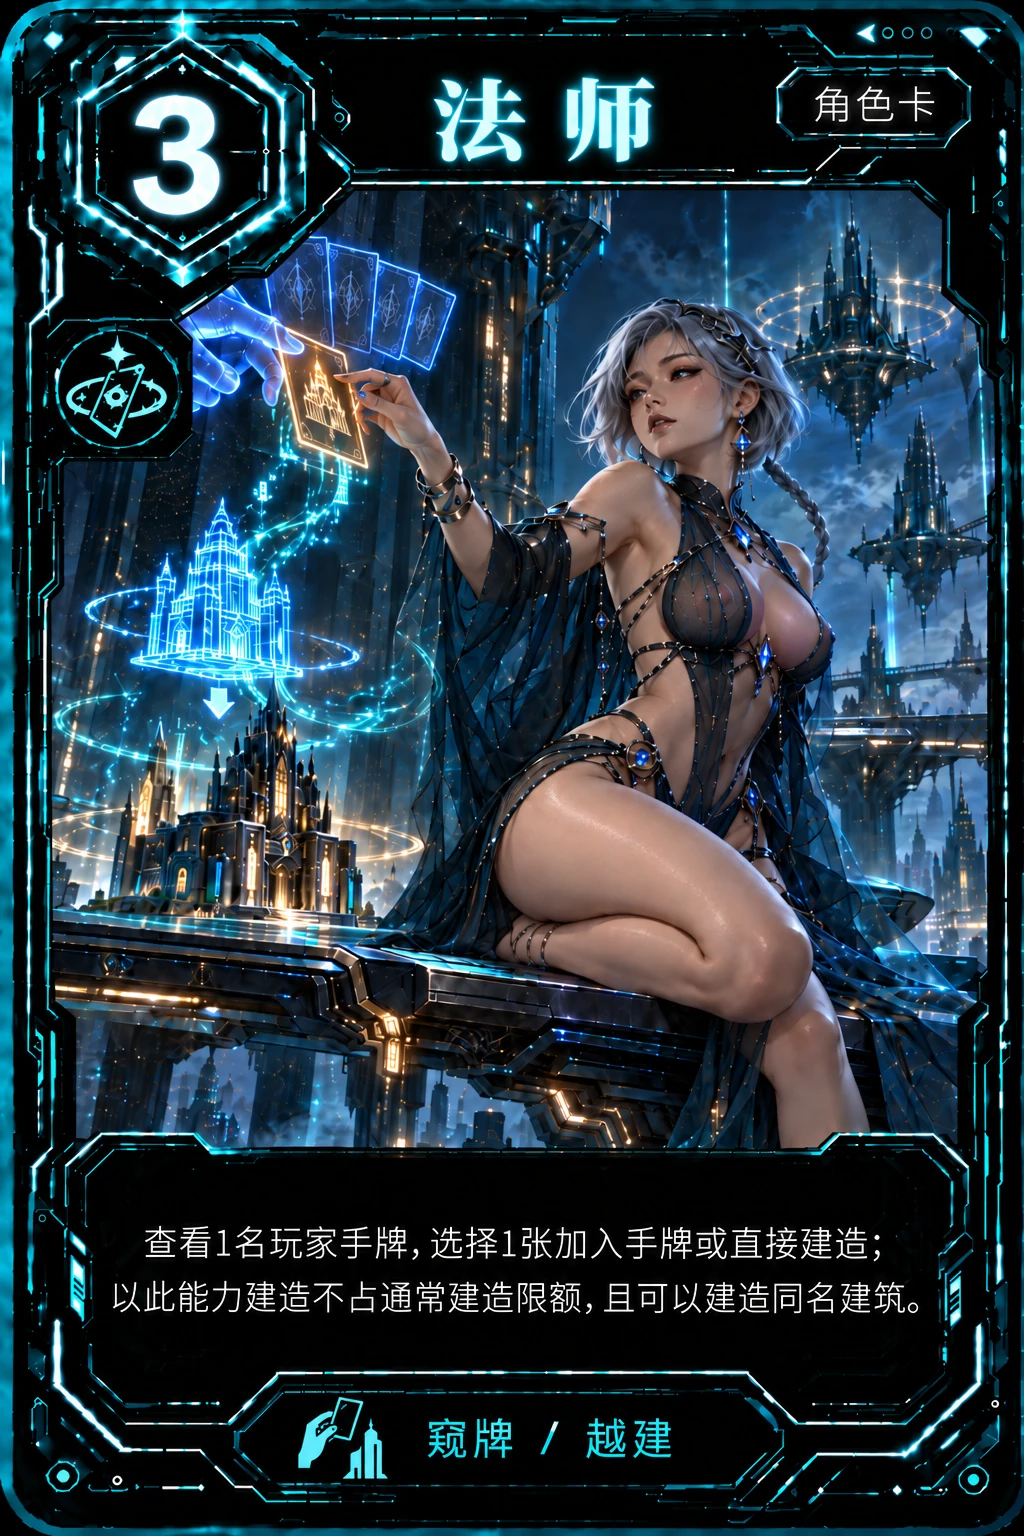
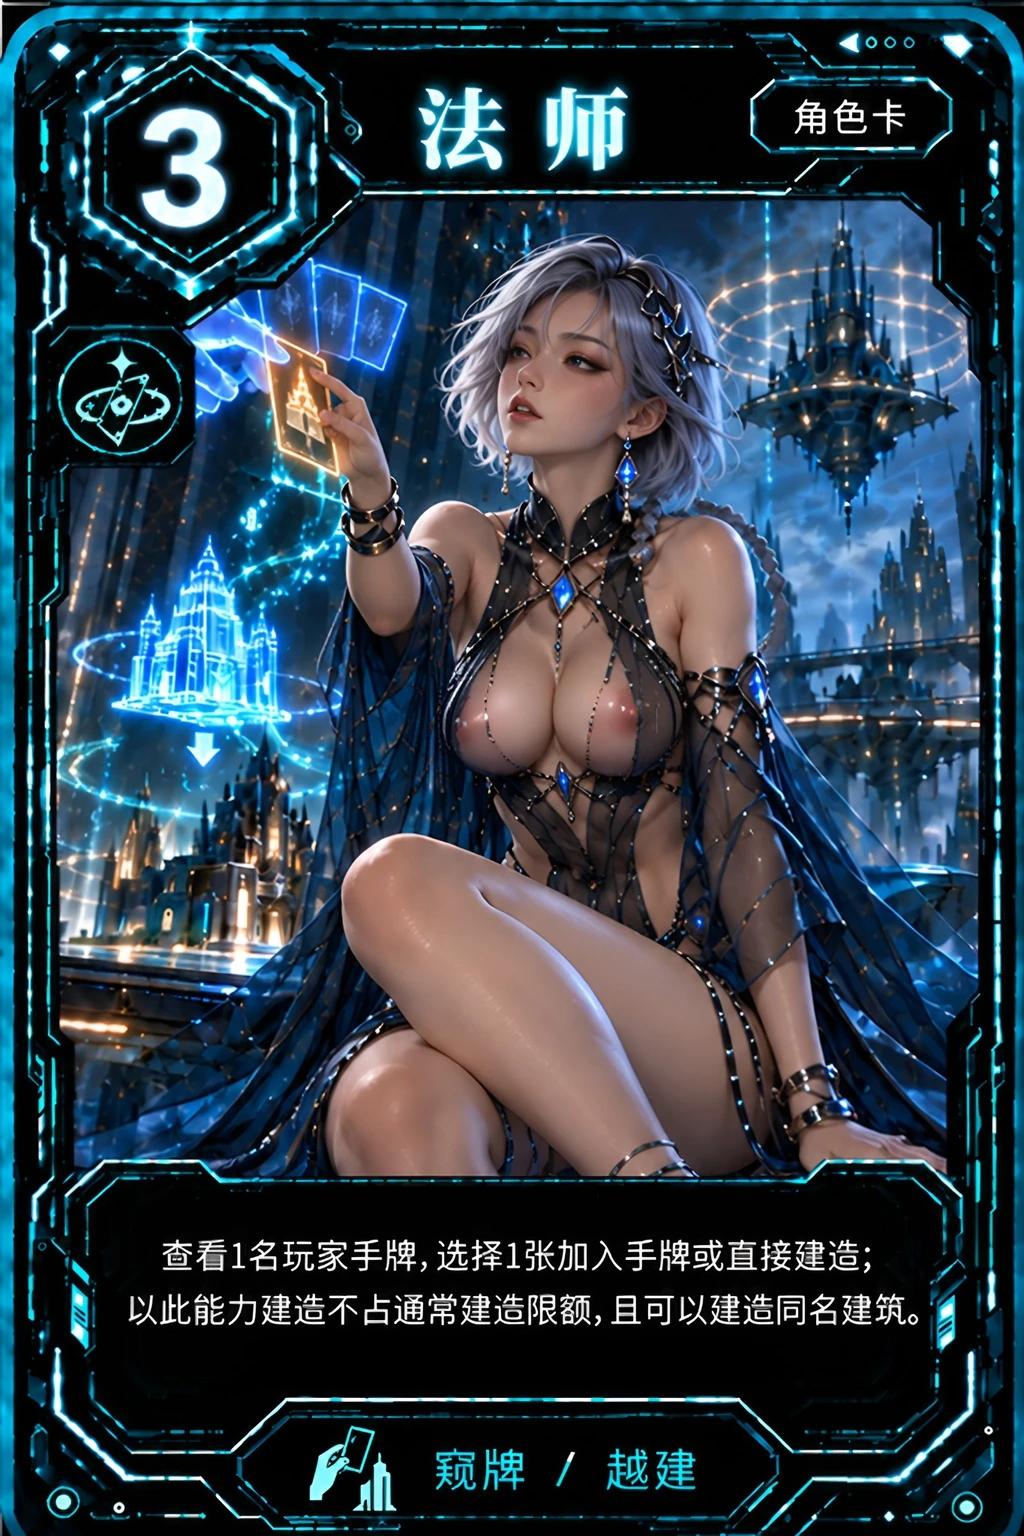
feat(neon): 更新法师角色卡图

diff --git a/public/themes/neon/manifest.js b/public/themes/neon/manifest.js
@@ -22,11 +22,14 @@
   ];
 
   function variants(folder, key) {
-    // 墓地卡图曾把建造费用 5 错印成能力支付费用 1，勒索者卡图已更新；
+    // 墓地卡图曾把建造费用 5 错印成能力支付费用 1，勒索者卡图已更新，
+    // 法师使用新版卡图，魔术师恢复为原卡图；
     // 单独版本化，让已安装 PWA 绕过旧图片的 HTTP / Service Worker 缓存。
     const versioned = (folder === 'districts' && key === 'graveyard') ||
-      (folder === 'roles' && key === 'blackmailer');
-    const version = versioned ? '?v=2' : '';
+      (folder === 'roles' && (key === 'blackmailer' || key === 'magician' || key === 'wizard'));
+    const version = folder === 'roles' && key === 'magician'
+      ? '?v=3'
+      : (versioned ? '?v=2' : '');
     return {
       thumb: base + folder + '/thumb/' + key + '.webp' + version,
       full: base + folder + '/full/' + key + '.webp' + version

diff --git a/test/theme-assets.js b/test/theme-assets.js
@@ -52,6 +52,14 @@ const blackmailer = manifest.cards.roles.blackmailer;
 if (!/blackmailer\.webp\?v=2$/.test(blackmailer.thumb) || !/blackmailer\.webp\?v=2$/.test(blackmailer.full)) {
   throw new Error('勒索者更新卡图缺少缓存版本标记');
 }
+const magician = manifest.cards.roles.magician;
+if (!/magician\.webp\?v=3$/.test(magician.thumb) || !/magician\.webp\?v=3$/.test(magician.full)) {
+  throw new Error('魔术师恢复卡图缺少缓存版本标记');
+}
+const wizard = manifest.cards.roles.wizard;
+if (!/wizard\.webp\?v=2$/.test(wizard.thumb) || !/wizard\.webp\?v=2$/.test(wizard.full)) {
+  throw new Error('法师更新卡图缺少缓存版本标记');
+}
 
 const roleKeys = Object.keys(manifest.cards.roles);
 const districtKeys = Object.keys(manifest.cards.districts);

diff --git a/public/app.js b/public/app.js
@@ -4017,7 +4017,7 @@
   window.__CitadelsApp = App;
   // PWA：支持从主屏幕/桌面以独立窗口启动；联机功能仍需网络连接服务器。
   if (typeof navigator !== 'undefined' && navigator.serviceWorker && location.protocol !== 'file:') {
-    navigator.serviceWorker.register('./sw.js?v=10', { scope: './' }).then(registration => {
+    navigator.serviceWorker.register('./sw.js?v=12', { scope: './' }).then(registration => {
       // GitHub Pages 上的 PWA 可能长时间保持旧 worker，启动时主动检查一次新版本。
       registration.update().catch(() => {});
       registration.addEventListener('updatefound', () => {

diff --git a/public/index.html b/public/index.html
@@ -393,7 +393,7 @@
   </div>
 </div>
 
-<script src="./themes/neon/manifest.js?v=5"></script>
+<script src="./themes/neon/manifest.js?v=7"></script>
 <script src="./themes/theme-manager.js?v=2"></script>
 <script src="./src/cards.js?v=4"></script>
 <script src="./src/engine.js?v=14"></script>

diff --git a/public/sw.js b/public/sw.js
@@ -1,4 +1,4 @@
-const CACHE_NAME = 'citadels-shell-v20';
+const CACHE_NAME = 'citadels-shell-v22';
 const APP_SHELL = [
   './', './index.html', './manifest.json', './style.css',
   './themes/neon/theme.css', './themes/neon/manifest.js', './themes/theme-manager.js',
